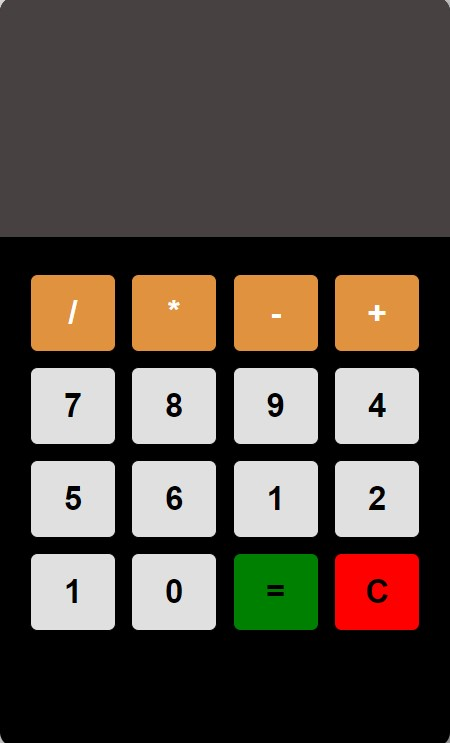
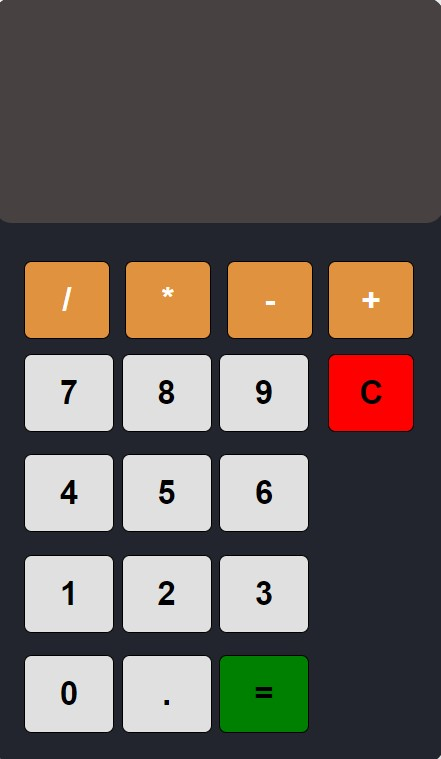
aligned button correctly

diff --git a/projects/pages/simple-calculator.html b/projects/pages/simple-calculator.html
@@ -1,11 +1,13 @@
 <!DOCTYPE html>
 <html lang="en">
+
 <head>
     <meta charset="UTF-8">
     <meta name="viewport" content="width=device-width, initial-scale=1.0">
     <link rel="stylesheet" href="/projects/stylesheets/simple-calculator.css">
     <title>Calculator App</title>
 </head>
+
 <body>
     <section class="calculator">
         <form>
@@ -18,21 +20,25 @@
             <button type="button" class="btn btn-yellow" data-num="-">-</button>
             <button type="button" class="btn btn-yellow" data-num="+">+</button>
 
-            <button type="button" class="btn btn-grey" data-num="7">7</button>
-            <button type="button" class="btn btn-grey" data-num="8">8</button>
-            <button type="button" class="btn btn-grey" data-num="9">9</button>
-            <button type="button" class="btn btn-grey" data-num="4">4</button>
-            <button type="button" class="btn btn-grey" data-num="5">5</button>
-            <button type="button" class="btn btn-grey" data-num="6">6</button>
-            <button type="button" class="btn btn-grey" data-num="1">1</button>
-            <button type="button" class="btn btn-grey" data-num="2">2</button>
-            <button type="button" class="btn btn-grey" data-num="1">3</button>
-            <button type="button" class="btn btn-grey" data-num="0">0</button>
+            <div class="btn-container">
+                <button type="button" class="btn btn-grey" data-num="7">7</button>
+                <button type="button" class="btn btn-grey" data-num="8">8</button>
+                <button type="button" class="btn btn-grey" data-num="9">9</button>
+                <button type="button" class="btn btn-grey" data-num="4">4</button>
+                <button type="button" class="btn btn-grey" data-num="5">5</button>
+                <button type="button" class="btn btn-grey" data-num="6">6</button>
+                <button type="button" class="btn btn-grey" data-num="1">1</button>
+                <button type="button" class="btn btn-grey" data-num="2">2</button>
+                <button type="button" class="btn btn-grey" data-num="1">3</button>
+                <button type="button" class="btn btn-grey" data-num="0">0</button>
+                <button type="button" class="btn btn-grey" data-num=".">.</button>
+                <button type="button" class="btn-equal" data-num="=">=</button>
+            </div>
 
-            <button type="button" class="btn-equal" data-num="=">=</button>
             <button type="button" class="btn-clear" data-num="C">C</button>
         </div>
     </section>
     <script src="/projects/scripts/simple-calculator.js"></script>
 </body>
+
 </html>

diff --git a/projects/stylesheets/simple-calculator.css b/projects/stylesheets/simple-calculator.css
@@ -13,23 +13,30 @@ body{
 
 .calculator{
     width: 300px;
-    height: 500px;
-    box-shadow: 5px 5px 30px;
-    background-color: black;
-    border-radius: 10px;
+    height: 510px;
+    box-shadow: 4px 4px 30px rgba(0, 0, 0, 0.3);
+    background-color: #22252D;
+    border-radius: 12px;
     overflow: hidden;
 }
 
 form input{
     width: 100%;
-    height: 10rem;
+    height: 150px;
     background-color: rgb(71, 65, 65);
     text-align: right;
     color: #ffffff;
-    font-size: 3rem;
-    padding: 2rem;
+    font-size: 1rem;
+    padding: 1rem;
     pointer-events: none;
     border: none;
+    border-radius: 12px;
+}
+
+.btn-container {
+    display: grid;
+    grid-template-columns: repeat(3, 1fr); /* Create 3 columns */
+    gap: 5px; /* Add some space between the buttons */
 }
 
 .buttons{
